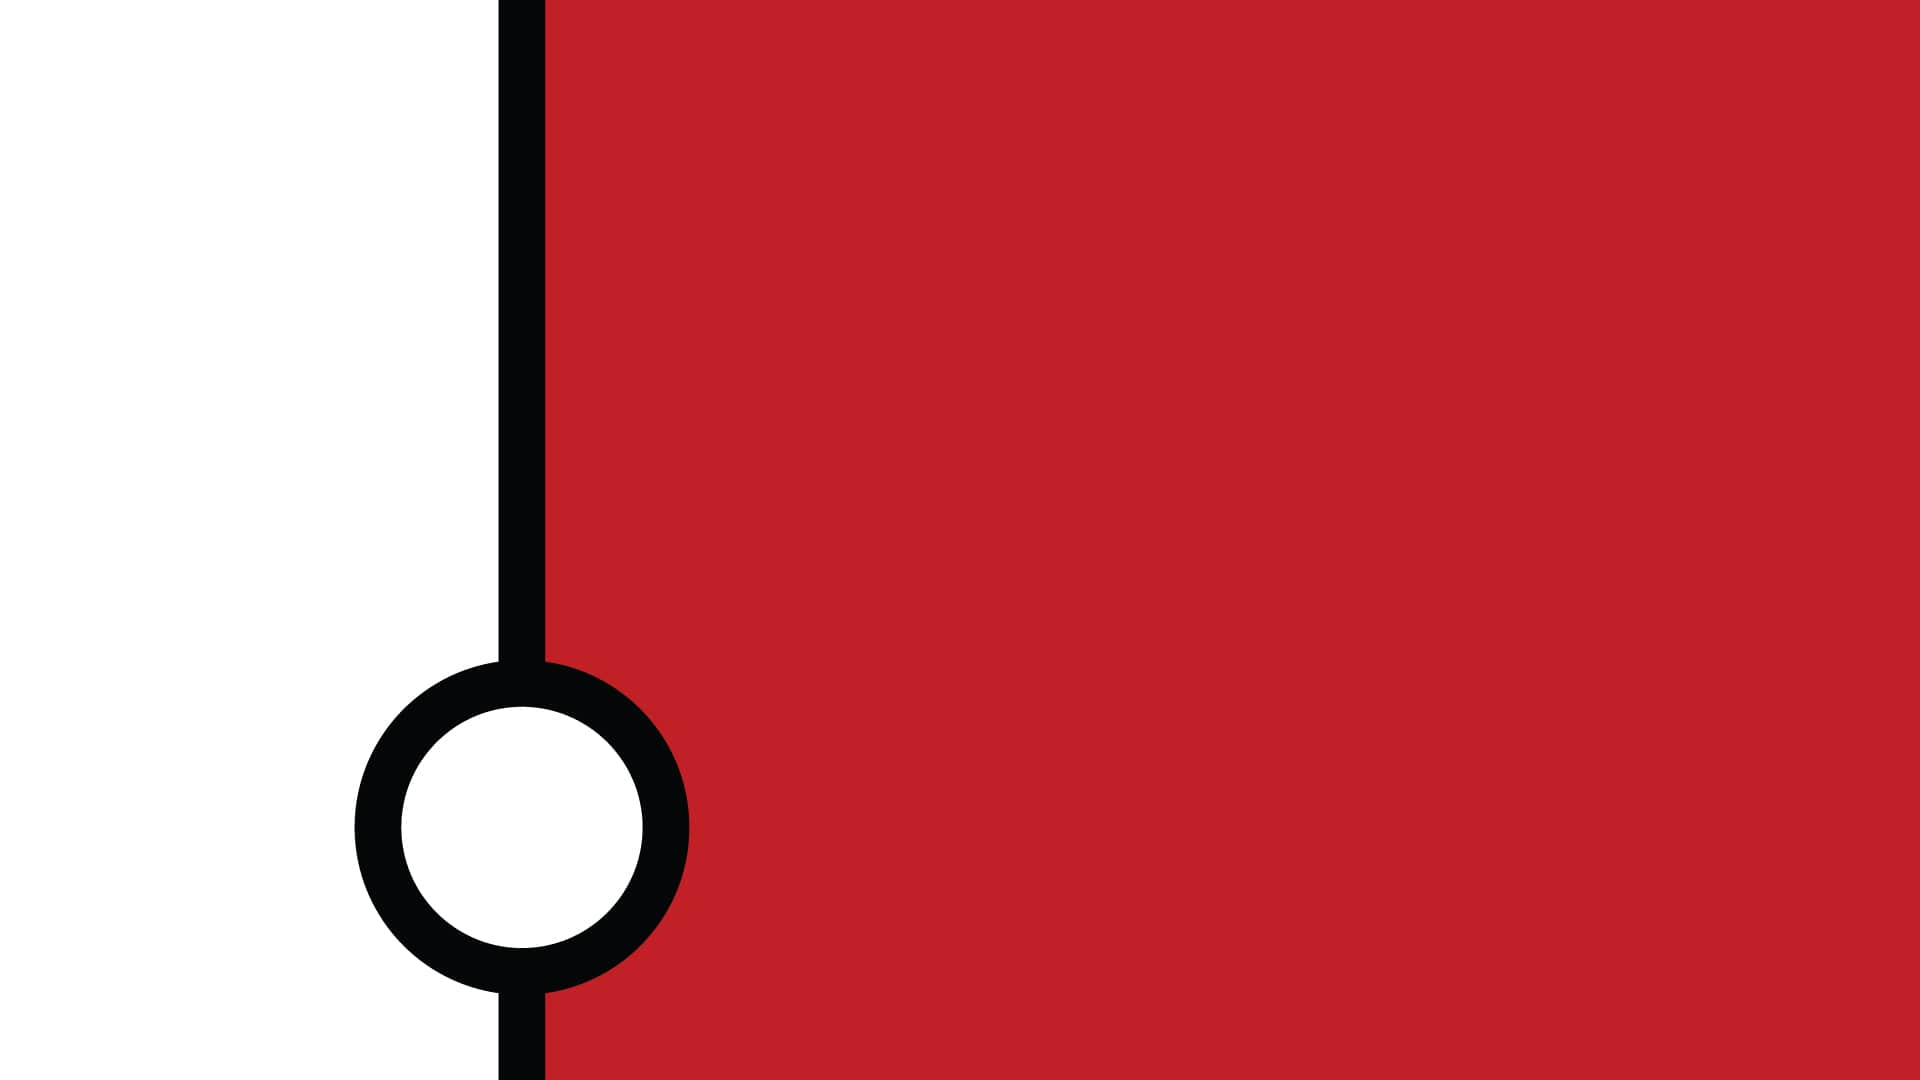
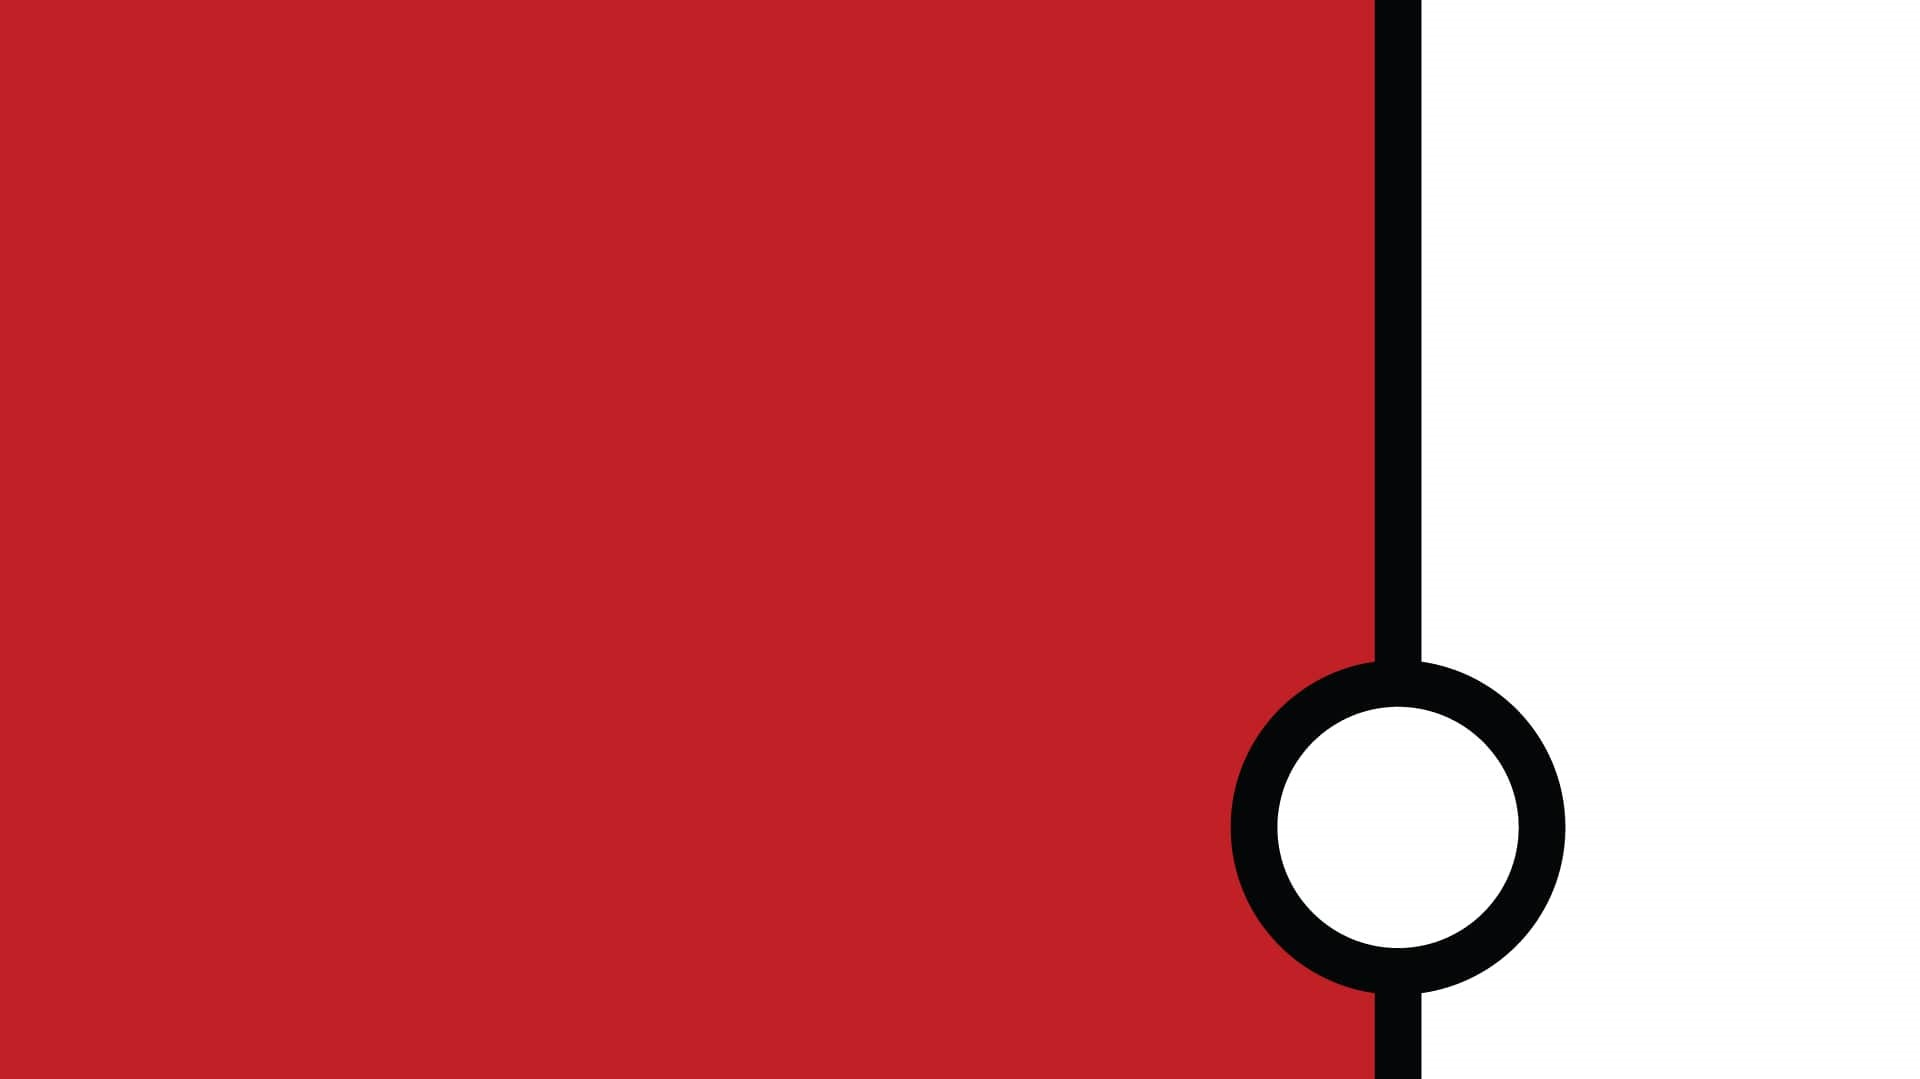
flip wallpaper

diff --git a/src/pages/PokemonDetail/index.js b/src/pages/PokemonDetail/index.js
@@ -1,6 +1,8 @@
+/*jshint esversion: 10 */
 import React, { useEffect, useState, useContext } from "react";
 import Skeleton from "react-loading-skeleton";
 import { useParams, NavLink, useHistory } from "react-router-dom";
+import { BsBackspaceFill } from "react-icons/bs";
 
 import PokeballDrop from "../../components/PokeballDrop";
 import { getPokemonById } from "../../api/restApi";
@@ -77,13 +79,13 @@ export default function PokemonDetail() {
 
   return (
     <Wrapper>
-      <BackButton
+      <br/>
+      <BsBackspaceFill
         onClick={() => {
           history.push("/pokedex");
         }}
-      >
-        back
-      </BackButton>
+        style={{ color: "white" }}
+      />
       <br />
       <InnerWrapper>
         <NavButton

diff --git a/src/globalStyles.js b/src/globalStyles.js
@@ -1,3 +1,4 @@
+/*jshint esversion: 10 */
 import styled from "@emotion/styled";
 
 const breakpoints = [576, 768, 992, 1200];
@@ -49,7 +50,9 @@ body{
   font-size:1.2em;
   transition: 150ms;
   &:hover {
-    filter: brightness(80%)
+    filter: brightness(80%);
+    cursor:pointer;
+    transform: scale(1.2);
   }
 }
 `;

diff --git a/src/pages/Pokedex/index.js b/src/pages/Pokedex/index.js
@@ -1,3 +1,4 @@
+/*jshint esversion: 10 */
 import React, { useState, useEffect, useContext, lazy, Suspense } from "react";
 import { NavLink } from "react-router-dom";
 import Skeleton from "react-loading-skeleton";

diff --git a/src/pages/PokemonDetail/pokemonDetail.style.js b/src/pages/PokemonDetail/pokemonDetail.style.js
@@ -1,3 +1,4 @@
+/*jshint esversion: 10 */
 import styled from "@emotion/styled";
 import { Container, mediaQuery } from "../../globalStyles";
 import pokeballTrans from "../../assets/pokeball-trans.png";

diff --git a/src/components/CardMyPokemon/index.js b/src/components/CardMyPokemon/index.js
@@ -1,3 +1,4 @@
+/*jshint esversion: 10 */
 import React, { useState, useEffect } from "react";
 import { NavLink, useHistory } from "react-router-dom";
 import Skeleton from "react-loading-skeleton";
